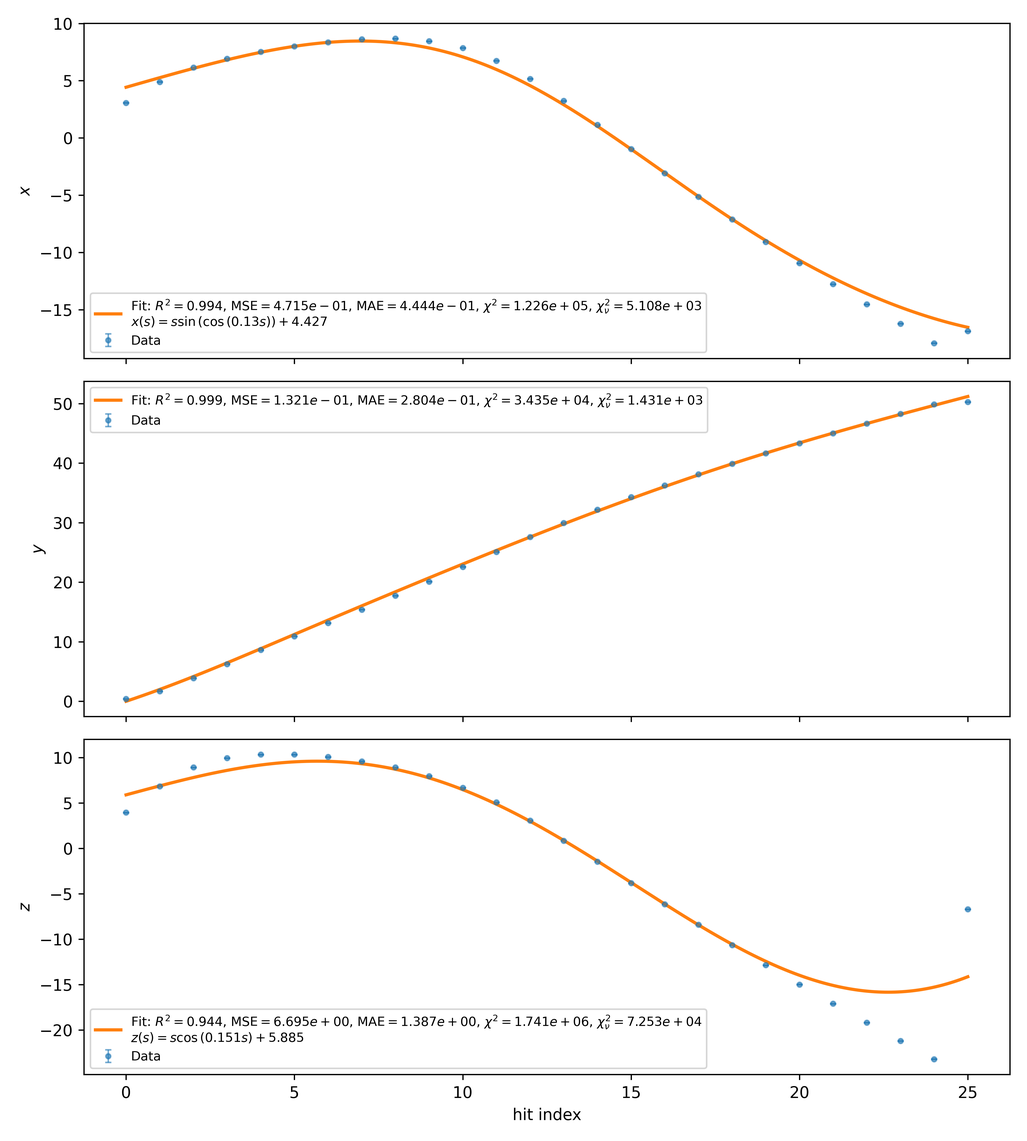
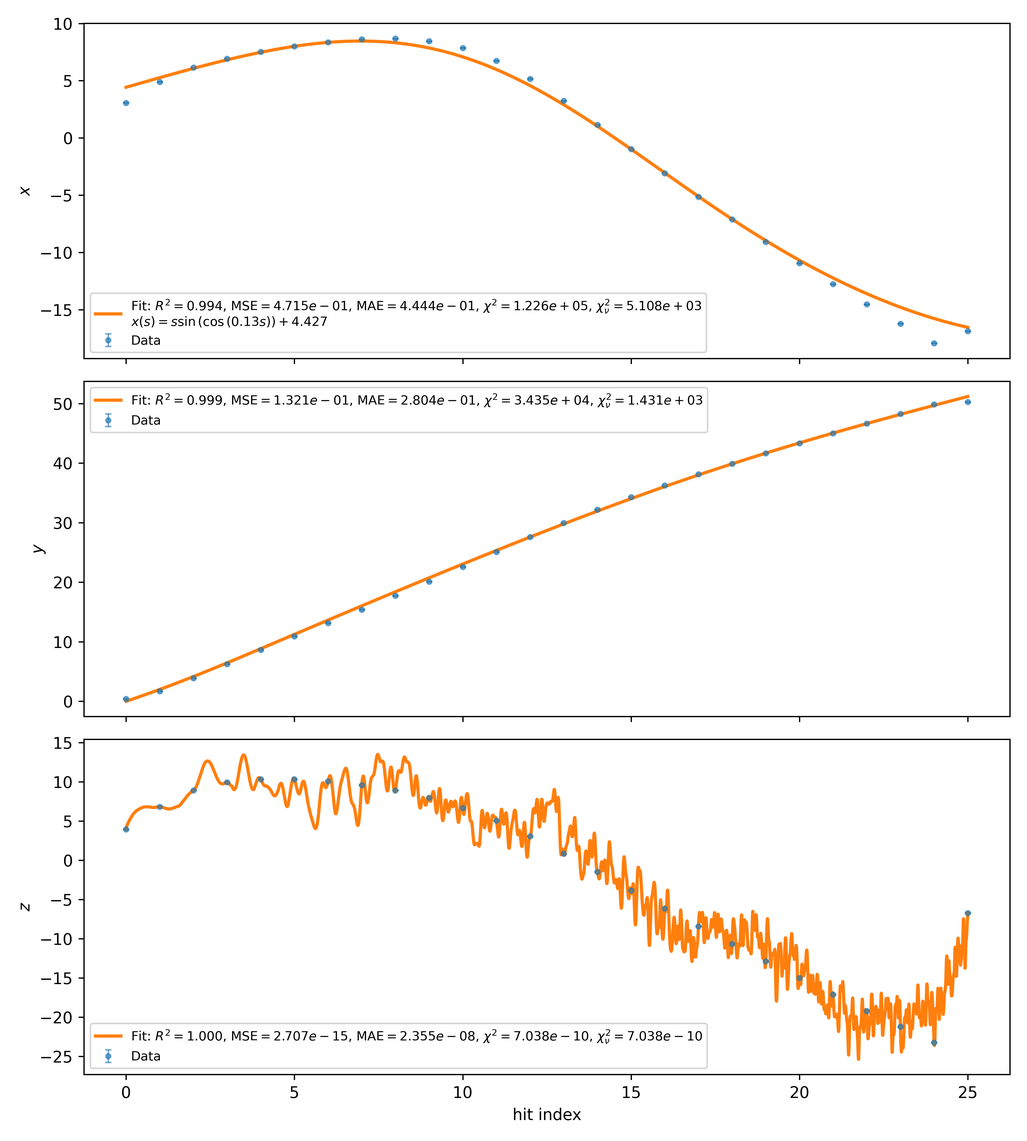
tracks

Changed region(s): [[0.1875, 0.6562, 0.9688, 0.9375], [0.0625, 0.875, 0.6875, 0.9375], [0.125, 0.6875, 0.1875, 0.7188]]

diff --git a/Whiteson/v20260122_163839__train10_test10__layers25_len320p0__r3p1-53p0__fd25-25__func3-3__noiseXY0p01_Z0p01.html b/Whiteson/v20260122_163839__train10_test10__layers25_len320p0__r3p1-53p0__fd25-25__func3-3__noiseXY0p01_Z0p01.html
@@ -131,9 +131,9 @@
 
   <script>
     // Data injected from Python below
-    const slides = [{"fid": 0, "Fx": 0, "Fy": 9, "Fz": 5, "track_idx": 0, "event_id": "event100000001-hits", "png": "pngs/SR_track_v20260122_163839__train10_test10__layers25_len320p0__r3p1-53p0__fd25-25__func3-3__noiseXY0p01_Z0p01event100000001-hits.png", "img_src": "pngs/SR_track_v20260122_163839__train10_test10__layers25_len320p0__r3p1-53p0__fd25-25__func3-3__noiseXY0p01_Z0p01event100000001-hits.png", "metrics_line": "\\begin{align*}&R^2:\\, x=0.776,\\;y=0.970,\\;z=0.725\\\\&\\chi^2_\\nu:\\;\\mathrm{x}=2.898 \\times 10^{5},\\;\\mathrm{y}=7.390 \\times 10^{4},\\;\\mathrm{z}=1.768 \\times 10^{6}\\end{align*}", "eqx": "$x(s) = - 7.415 \\sqrt{s} + s^{\\cos{\\left(s \\right)}}$", "eqy": "$y(s) = - 2 s - \\cos{\\left(s \\right)} + 7.898$", "eqz": "$z(s) = 71.182 \\sin{\\left(\\frac{s}{\\cos{\\left(s \\right)} - 14.387} \\right)}$"}, {"fid": 1, "Fx": 8, "Fy": 1, "Fz": 1, "track_idx": 1, "event_id": "event100000002-hits", "png": "pngs/SR_track_v20260122_163839__train10_test10__layers25_len320p0__r3p1-53p0__fd25-25__func3-3__noiseXY0p01_Z0p01event100000002-hits.png", "img_src": "pngs/SR_track_v20260122_163839__train10_test10__layers25_len320p0__r3p1-53p0__fd25-25__func3-3__noiseXY0p01_Z0p01event100000002-hits.png", "metrics_line": "\\begin{align*}&R^2:\\, x=1.000,\\;y=0.999,\\;z=1.000\\\\&\\chi^2_\\nu:\\;\\mathrm{x}=6.955 \\times 10^{0},\\;\\mathrm{y}=1.372 \\times 10^{2},\\;\\mathrm{z}=4.985 \\times 10^{0}\\end{align*}", "eqx": "$x(s) = s \\left(2.141 - 0.005 s\\right) + 2.886$", "eqy": "$y(s) = - s \\tanh{\\left(\\tanh{\\left(0.031 s \\right)} \\right)} + 1.307$", "eqz": "$z(s) = 0.137 \\left(0.285 s + 1\\right)^{2.309} + 0.161$"}, {"fid": 2, "Fx": 12, "Fy": 5, "Fz": 29, "track_idx": 2, "event_id": "event100000003-hits", "png": "pngs/SR_track_v20260122_163839__train10_test10__layers25_len320p0__r3p1-53p0__fd25-25__func3-3__noiseXY0p01_Z0p01event100000003-hits.png", "img_src": "pngs/SR_track_v20260122_163839__train10_test10__layers25_len320p0__r3p1-53p0__fd25-25__func3-3__noiseXY0p01_Z0p01event100000003-hits.png", "metrics_line": "\\begin{align*}&R^2:\\, x=0.557,\\;y=0.682,\\;z=0.999\\\\&\\chi^2_\\nu:\\;\\mathrm{x}=1.803 \\times 10^{6},\\;\\mathrm{y}=1.831 \\times 10^{6},\\;\\mathrm{z}=1.431 \\times 10^{4}\\end{align*}", "eqx": "$x(s) = 24.583 \\sin{\\left(\\sin{\\left(0.126 s \\right)} - 0.237 \\right)}$", "eqy": "$y(s) = - 28.114 \\sin{\\left(0.086 s \\right)} - 3.495$", "eqz": "$z(s) = 2 s - 2.443 s^{{1.026}^{\\cos{\\left(\\sqrt{s} \\right)}}} - 4.846 \\sin{\\left(0.367 s \\right)} + 2.454 \\sin{\\left(0.45 s \\right)} + \\sin{\\left(1.792 \\sqrt{0.311 {1.052}^{s^{0.993}} + 1} \\right)} + \\sin{\\left(\\cos{\\left(0.278 s^{1.114} \\right)} \\right)} + \\cos{\\left(2.055 s^{0.841} \\right)} + 1.545 \\cos{\\left(0.592 s \\right)} + \\cos{\\left(0.697 s \\right)} + 8.162 \\cos{\\left(s^{0.693} - 2.638 \\right)} + 26.135 \\cos{\\left(54.534 \\sqrt{0.006 s + 1} \\right)} + \\cos{\\left(\\log{\\left({1.502}^{s^{0.998}} \\right)} \\right)} + 25.153 \\tanh{\\left(\\cos{\\left({1.014}^{s} \\right)} \\right)} - 1.144 - \\frac{0.041}{\\operatorname{asin}{\\left(\\cos{\\left(1.065 \\sqrt{0.882 s + 1} \\right)} \\right)}} - \\frac{0.032}{\\sin{\\left(4 s - 3.046 \\right)}} + e^{- 1.983 \\sin{\\left(0.266 s - 0.668 \\right)}} - \\frac{6.012 \\cos{\\left(s - 9.779 \\right)}}{s + 1.214} + \\frac{2.253}{s - 43.423} + \\frac{11.891}{118.389 - s}$"}, {"fid": 3, "Fx": 13, "Fy": 8, "Fz": 7, "track_idx": 3, "event_id": "event100000004-hits", "png": "pngs/SR_track_v20260122_163839__train10_test10__layers25_len320p0__r3p1-53p0__fd25-25__func3-3__noiseXY0p01_Z0p01event100000004-hits.png", "img_src": "pngs/SR_track_v20260122_163839__train10_test10__layers25_len320p0__r3p1-53p0__fd25-25__func3-3__noiseXY0p01_Z0p01event100000004-hits.png", "metrics_line": "\\begin{align*}&R^2:\\, x=0.845,\\;y=0.541,\\;z=0.459\\\\&\\chi^2_\\nu:\\;\\mathrm{x}=1.031 \\times 10^{6},\\;\\mathrm{y}=1.600 \\times 10^{6},\\;\\mathrm{z}=2.529 \\times 10^{6}\\end{align*}", "eqx": "$x(s) = 54.152 \\tanh{\\left(\\tanh{\\left(\\sin{\\left(\\sin{\\left(0.042 s \\right)} \\right)} \\right)} \\right)}$", "eqy": "$y(s) = s^{0.706} \\cos{\\left(s^{0.548} \\right)}$", "eqz": "$z(s) = s^{\\sin{\\left(1.224 e^{\\sin{\\left(\\sqrt{s} \\right)}} \\right)}}$"}, {"fid": 4, "Fx": 14, "Fy": 7, "Fz": 4, "track_idx": 4, "event_id": "event100000005-hits", "png": "pngs/SR_track_v20260122_163839__train10_test10__layers25_len320p0__r3p1-53p0__fd25-25__func3-3__noiseXY0p01_Z0p01event100000005-hits.png", "img_src": "pngs/SR_track_v20260122_163839__train10_test10__layers25_len320p0__r3p1-53p0__fd25-25__func3-3__noiseXY0p01_Z0p01event100000005-hits.png", "metrics_line": "\\begin{align*}&R^2:\\, x=0.994,\\;y=0.999,\\;z=0.944\\\\&\\chi^2_\\nu:\\;\\mathrm{x}=5.108 \\times 10^{3},\\;\\mathrm{y}=1.431 \\times 10^{3},\\;\\mathrm{z}=7.253 \\times 10^{4}\\end{align*}", "eqx": "$x(s) = s \\sin{\\left(\\cos{\\left(0.13 s \\right)} \\right)} + 4.427$", "eqy": "$y(s) = 2.114 s \\sqrt{1 - 0.223 \\sin{\\left(\\cos{\\left(\\sqrt{s} \\right)} \\right)}}$", "eqz": "$z(s) = s \\cos{\\left(0.151 s \\right)} + 5.885$"}];
-    const eqSlides = [{"key": ["x", "Add(Mul(Symbol('a0'), Pow(Symbol('s'), Rational(1, 2))), Pow(Symbol('s'), cos(Symbol('s'))))"], "eq": "$x(s) = a_{0} \\sqrt{s} + s^{\\cos{\\left(s \\right)}}$", "uses": [{"slide": 0, "label": "1-x", "rep_fam": 0}]}, {"key": ["y", "Add(Symbol('a0'), Mul(Integer(-1), Integer(2), Symbol('s')), Mul(Integer(-1), cos(Symbol('s'))))"], "eq": "$y(s) = a_{0} - 2 s - \\cos{\\left(s \\right)}$", "uses": [{"slide": 0, "label": "1-y", "rep_fam": 9}]}, {"key": ["z", "Mul(Symbol('a1'), sin(Mul(Symbol('s'), Pow(Add(Symbol('a0'), cos(Symbol('s'))), Integer(-1)))))"], "eq": "$z(s) = a_{1} \\sin{\\left(\\frac{s}{a_{0} + \\cos{\\left(s \\right)}} \\right)}$", "uses": [{"slide": 0, "label": "1-z", "rep_fam": 5}]}, {"key": ["x", "Add(Symbol('a2'), Mul(Symbol('s'), Add(Mul(Symbol('a0'), Symbol('s')), Symbol('a1'))))"], "eq": "$x(s) = a_{2} + s \\left(a_{0} s + a_{1}\\right)$", "uses": [{"slide": 1, "label": "2-x", "rep_fam": 8}]}, {"key": ["y", "Add(Symbol('a1'), Mul(Integer(-1), Symbol('s'), tanh(tanh(Mul(Symbol('a0'), Symbol('s'))))))"], "eq": "$y(s) = a_{1} - s \\tanh{\\left(\\tanh{\\left(a_{0} s \\right)} \\right)}$", "uses": [{"slide": 1, "label": "2-y", "rep_fam": 1}]}, {"key": ["z", "Add(Mul(Symbol('a0'), Pow(Add(Mul(Symbol('a2'), Symbol('s')), Integer(1)), Symbol('a3'))), Symbol('a1'))"], "eq": "$z(s) = a_{0} \\left(a_{2} s + 1\\right)^{a_{3}} + a_{1}$", "uses": [{"slide": 1, "label": "2-z", "rep_fam": 1}]}, {"key": ["x", "Mul(Symbol('a2'), sin(Add(Symbol('a0'), sin(Mul(Symbol('a1'), Symbol('s'))))))"], "eq": "$x(s) = a_{2} \\sin{\\left(a_{0} + \\sin{\\left(a_{1} s \\right)} \\right)}$", "uses": [{"slide": 2, "label": "3-x", "rep_fam": 12}]}, {"key": ["y", "Add(Mul(Symbol('a0'), sin(Mul(Symbol('a2'), Symbol('s')))), Symbol('a1'))"], "eq": "$y(s) = a_{0} \\sin{\\left(a_{2} s \\right)} + a_{1}$", "uses": [{"slide": 2, "label": "3-y", "rep_fam": 5}]}, {"key": ["z", "Add(Mul(Symbol('a10'), Pow(asin(cos(Mul(Symbol('a28'), Pow(Add(Mul(Symbol('a22'), Symbol('s')), Integer(1)), Rational(1, 2))))), Integer(-1))), Mul(Symbol('a11'), Pow(sin(Add(Symbol('a4'), Mul(Integer(4), Symbol('s')))), Integer(-1))), Mul(Symbol('a2'), Pow(Add(Symbol('a30'), Symbol('s')), Integer(-1)), cos(Add(Symbol('a1'), Symbol('s')))), Mul(Symbol('a3'), sin(Mul(Symbol('a16'), Symbol('s')))), Mul(Symbol('a32'), cos(Mul(Symbol('a18'), Symbol('s')))), Mul(Symbol('a35'), Pow(Add(Symbol('a0'), Symbol('s')), Integer(-1))), Mul(Symbol('a36'), sin(Mul(Symbol('a17'), Symbol('s')))), Mul(Symbol('a37'), cos(Add(Symbol('a5'), Pow(Symbol('s'), Symbol('a19'))))), Mul(Symbol('a38'), Pow(Add(Symbol('a42'), Mul(Integer(-1), Symbol('s'))), Integer(-1))), Mul(Symbol('a39'), tanh(cos(Pow(Symbol('a25'), Symbol('s'))))), Mul(Symbol('a40'), cos(Mul(Symbol('a41'), Pow(Add(Mul(Symbol('a12'), Symbol('s')), Integer(1)), Rational(1, 2))))), Mul(Symbol('a6'), Pow(Symbol('s'), Pow(Symbol('a26'), cos(Pow(Symbol('s'), Rational(1, 2)))))), Symbol('a8'), Mul(Integer(2), Symbol('s')), exp(Mul(Symbol('a7'), sin(Add(Mul(Symbol('a13'), Symbol('s')), Symbol('a9'))))), sin(Mul(Symbol('a33'), Pow(Add(Mul(Symbol('a15'), Pow(Symbol('a27'), Pow(Symbol('s'), Symbol('a23')))), Integer(1)), Rational(1, 2)))), sin(cos(Mul(Symbol('a14'), Pow(Symbol('s'), Symbol('a29'))))), cos(Mul(Symbol('a20'), Symbol('s'))), cos(Mul(Symbol('a34'), Pow(Symbol('s'), Symbol('a21')))), cos(log(Pow(Symbol('a31'), Pow(Symbol('s'), Symbol('a24'))))))"], "eq": "$z(s) = \\frac{a_{10}}{\\operatorname{asin}{\\left(\\cos{\\left(a_{28} \\sqrt{a_{22} s + 1} \\right)} \\right)}} + \\frac{a_{11}}{\\sin{\\left(a_{4} + 4 s \\right)}} + \\frac{a_{2} \\cos{\\left(a_{1} + s \\right)}}{a_{30} + s} + a_{3} \\sin{\\left(a_{16} s \\right)} + a_{32} \\cos{\\left(a_{18} s \\right)} + \\frac{a_{35}}{a_{0} + s} + a_{36} \\sin{\\left(a_{17} s \\right)} + a_{37} \\cos{\\left(a_{5} + s^{a_{19}} \\right)} + \\frac{a_{38}}{a_{42} - s} + a_{39} \\tanh{\\left(\\cos{\\left(a_{25}^{s} \\right)} \\right)} + a_{40} \\cos{\\left(a_{41} \\sqrt{a_{12} s + 1} \\right)} + a_{6} s^{a_{26}^{\\cos{\\left(\\sqrt{s} \\right)}}} + a_{8} + 2 s + e^{a_{7} \\sin{\\left(a_{13} s + a_{9} \\right)}} + \\sin{\\left(a_{33} \\sqrt{a_{15} a_{27}^{s^{a_{23}}} + 1} \\right)} + \\sin{\\left(\\cos{\\left(a_{14} s^{a_{29}} \\right)} \\right)} + \\cos{\\left(a_{20} s \\right)} + \\cos{\\left(a_{34} s^{a_{21}} \\right)} + \\cos{\\left(\\log{\\left(a_{31}^{s^{a_{24}}} \\right)} \\right)}$", "uses": [{"slide": 2, "label": "3-z", "rep_fam": 29}]}, {"key": ["x", "Mul(Symbol('a1'), tanh(tanh(sin(sin(Mul(Symbol('a0'), Symbol('s')))))))"], "eq": "$x(s) = a_{1} \\tanh{\\left(\\tanh{\\left(\\sin{\\left(\\sin{\\left(a_{0} s \\right)} \\right)} \\right)} \\right)}$", "uses": [{"slide": 3, "label": "4-x", "rep_fam": 13}]}, {"key": ["y", "Mul(Pow(Symbol('s'), Symbol('a1')), cos(Pow(Symbol('s'), Symbol('a0'))))"], "eq": "$y(s) = s^{a_{1}} \\cos{\\left(s^{a_{0}} \\right)}$", "uses": [{"slide": 3, "label": "4-y", "rep_fam": 8}]}, {"key": ["z", "Pow(Symbol('s'), sin(Mul(Symbol('a0'), exp(sin(Pow(Symbol('s'), Rational(1, 2)))))))"], "eq": "$z(s) = s^{\\sin{\\left(a_{0} e^{\\sin{\\left(\\sqrt{s} \\right)}} \\right)}}$", "uses": [{"slide": 3, "label": "4-z", "rep_fam": 7}]}, {"key": ["x", "Add(Symbol('a1'), Mul(Symbol('s'), sin(cos(Mul(Symbol('a0'), Symbol('s'))))))"], "eq": "$x(s) = a_{1} + s \\sin{\\left(\\cos{\\left(a_{0} s \\right)} \\right)}$", "uses": [{"slide": 4, "label": "5-x", "rep_fam": 14}]}, {"key": ["y", "Mul(Symbol('a1'), Symbol('s'), Pow(Add(Mul(Symbol('a0'), sin(cos(Pow(Symbol('s'), Rational(1, 2))))), Integer(1)), Rational(1, 2)))"], "eq": "$y(s) = a_{1} s \\sqrt{a_{0} \\sin{\\left(\\cos{\\left(\\sqrt{s} \\right)} \\right)} + 1}$", "uses": [{"slide": 4, "label": "5-y", "rep_fam": 7}]}, {"key": ["z", "Add(Symbol('a1'), Mul(Symbol('s'), cos(Mul(Symbol('a0'), Symbol('s')))))"], "eq": "$z(s) = a_{1} + s \\cos{\\left(a_{0} s \\right)}$", "uses": [{"slide": 4, "label": "5-z", "rep_fam": 4}]}];
-    const eqStats  = {"unique": 15, "total_components": 15};
+    const slides = [{"fid": 0, "Fx": 0, "Fy": 9, "Fz": 5, "track_idx": 0, "event_id": "event100000001-hits", "png": "pngs/SR_track_v20260122_163839__train10_test10__layers25_len320p0__r3p1-53p0__fd25-25__func3-3__noiseXY0p01_Z0p01event100000001-hits.png", "img_src": "pngs/SR_track_v20260122_163839__train10_test10__layers25_len320p0__r3p1-53p0__fd25-25__func3-3__noiseXY0p01_Z0p01event100000001-hits.png", "metrics_line": "\\begin{align*}&R^2:\\, x=0.776,\\;y=0.970,\\;z=0.725\\\\&\\chi^2_\\nu:\\;\\mathrm{x}=2.898 \\times 10^{5},\\;\\mathrm{y}=7.390 \\times 10^{4},\\;\\mathrm{z}=1.768 \\times 10^{6}\\end{align*}", "eqx": "$x(s) = - 7.415 \\sqrt{s} + s^{\\cos{\\left(s \\right)}}$", "eqy": "$y(s) = - 2 s - \\cos{\\left(s \\right)} + 7.898$", "eqz": "$z(s) = 71.182 \\sin{\\left(\\frac{s}{\\cos{\\left(s \\right)} - 14.387} \\right)}$"}, {"fid": 1, "Fx": 8, "Fy": 1, "Fz": 1, "track_idx": 1, "event_id": "event100000002-hits", "png": "pngs/SR_track_v20260122_163839__train10_test10__layers25_len320p0__r3p1-53p0__fd25-25__func3-3__noiseXY0p01_Z0p01event100000002-hits.png", "img_src": "pngs/SR_track_v20260122_163839__train10_test10__layers25_len320p0__r3p1-53p0__fd25-25__func3-3__noiseXY0p01_Z0p01event100000002-hits.png", "metrics_line": "\\begin{align*}&R^2:\\, x=1.000,\\;y=0.999,\\;z=1.000\\\\&\\chi^2_\\nu:\\;\\mathrm{x}=6.955 \\times 10^{0},\\;\\mathrm{y}=1.372 \\times 10^{2},\\;\\mathrm{z}=4.985 \\times 10^{0}\\end{align*}", "eqx": "$x(s) = s \\left(2.141 - 0.005 s\\right) + 2.886$", "eqy": "$y(s) = - s \\tanh{\\left(\\tanh{\\left(0.031 s \\right)} \\right)} + 1.307$", "eqz": "$z(s) = 0.137 \\left(0.285 s + 1\\right)^{2.309} + 0.161$"}, {"fid": 2, "Fx": 12, "Fy": 5, "Fz": 12, "track_idx": 2, "event_id": "event100000003-hits", "png": "pngs/SR_track_v20260122_163839__train10_test10__layers25_len320p0__r3p1-53p0__fd25-25__func3-3__noiseXY0p01_Z0p01event100000003-hits.png", "img_src": "pngs/SR_track_v20260122_163839__train10_test10__layers25_len320p0__r3p1-53p0__fd25-25__func3-3__noiseXY0p01_Z0p01event100000003-hits.png", "metrics_line": "\\begin{align*}&R^2:\\, x=0.557,\\;y=0.682,\\;z=1.000\\\\&\\chi^2_\\nu:\\;\\mathrm{x}=1.803 \\times 10^{6},\\;\\mathrm{y}=1.831 \\times 10^{6},\\;\\mathrm{z}=9.542 \\times 10^{2}\\end{align*}", "eqx": "$x(s) = 24.583 \\sin{\\left(\\sin{\\left(0.126 s \\right)} - 0.237 \\right)}$", "eqy": "$y(s) = - 28.114 \\sin{\\left(0.086 s \\right)} - 3.495$", "eqz": "$z(s) = - s \\left(- s \\left(3.884 \\cdot 10^{-7} s \\operatorname{sech}{\\left(\\cos{\\left(\\sqrt{s} \\right)} \\right)} - 7.819 \\cdot 10^{-5}\\right) - 0.003\\right) \\sin{\\left(s \\right)} \\operatorname{asin}{\\left(\\cos{\\left(s \\operatorname{sech}{\\left(\\tanh{\\left(s \\right)} \\right)} - 0.757 \\right)} \\right)} + 12.957 s \\left(\\sqrt{\\operatorname{sech}{\\left(s \\right)}} - 0.041\\right) - 0.053 s \\sin{\\left(0.263 s \\right)} - 1.394 s \\sin{\\left(s + 0.484 \\right)} \\operatorname{sech}{\\left(3.571 s - 425 \\right)} + 0.008 s \\cos{\\left(0.429 s^{2} + 0.594 \\right)} - 0.355 s \\tanh{\\left(\\sin{\\left(1.09 \\sqrt{s} \\right)} \\right)} + \\left(27.713 - 6.604 \\cdot 10^{-6} s^{3}\\right) \\sin{\\left(0.136 s + 0.136 \\sin{\\left(\\sqrt{s} \\right)} \\right)} - \\left(- 0.002 s - \\left(- 0.532 \\sin{\\left(s \\right)} \\cos{\\left(\\sqrt{s} \\right)} - 0.532 \\cos{\\left(s \\right)} - 0.024\\right) \\sin{\\left(s \\right)}\\right) \\cos{\\left(0.857 s - 0.323 \\right)} + \\left(0.001 s - \\operatorname{asin}{\\left(\\left(- 0.052 \\cos{\\left(s \\right)} + 0.052 \\tanh{\\left(s \\right)}\\right) \\operatorname{asin}{\\left(\\tanh{\\left(s \\right)} \\right)} + 0.052 \\sin{\\left(s^{2} \\right)} - 0.052 \\cos{\\left(s^{2} \\right)} \\right)}\\right) \\sin{\\left(s \\right)} - \\left(0.643 s - 2.47\\right) \\left(- s \\cos{\\left(s \\right)} - \\sin{\\left(s \\right)} - 0.607\\right) \\operatorname{sech}{\\left(0.371 s \\right)} + \\left(\\left(0.196 - 7.75\\times 10^{-4} s\\right) \\left(- 0.009 s - \\sin{\\left(\\sqrt{s} \\right)} - 0.405 \\sin{\\left(s \\right)} - \\cos{\\left(s \\right)} + \\tanh{\\left(s \\right)} + 0.393\\right) \\cos{\\left(4 s + \\sin{\\left(2 s \\right)} \\right)} - 0.076\\right) \\operatorname{acos}{\\left(- \\cos{\\left(s \\right)} \\right)} + \\left(0.417 \\sqrt{1 - \\cos^{2}{\\left(s \\right)}} - 0.417 \\tanh{\\left(s \\right)}\\right) \\sin{\\left(- 0.266 \\sqrt{s} + s \\operatorname{asin}{\\left(\\tanh{\\left(s \\right)} \\right)} + \\operatorname{asin}{\\left(\\cos{\\left(0.075 s \\left(s + 0.075\\right) \\right)} \\right)} \\right)} - \\left(- 0.815 \\sin{\\left(\\left(2.589 - s\\right) \\left(- s - 0.623\\right) \\right)} - 0.328\\right) \\cos{\\left(s \\right)} - \\left(0.575 \\cos{\\left(s \\right)} + 0.392\\right) \\sin{\\left(s \\left(0.873 - 0.888 s\\right) \\right)} + \\left(\\operatorname{sech}{\\left(\\sin{\\left(\\left(0.077 - s\\right) \\tanh{\\left(\\tanh{\\left(s \\right)} \\right)} \\right)} \\right)} - \\operatorname{sech}{\\left(\\operatorname{asin}{\\left(\\cos{\\left(0.907 s + 0.46 \\right)} \\right)} \\right)}\\right) \\left(- 2.374 \\sin{\\left(s \\right)} + 2.374 \\tanh{\\left(s \\right)} - 0.713\\right) + 0.868 \\sin{\\left(\\sqrt{s} \\right)} \\cos{\\left(2 s \\right)} - 5.617 \\sin{\\left(0.368 s \\right)} + 1.493 \\sin{\\left(0.714 s \\right)} - 0.264 \\sin^{2}{\\left(s \\right)} \\sin{\\left(1.073 \\sqrt{- s \\left(- \\sqrt{s} - 0.497\\right)} \\right)} + 1.493 \\sin{\\left(0.639 \\sqrt{s} \\sin{\\left(\\sqrt{s} \\right)} \\right)} + 0.868 \\sin{\\left(s \\left(\\operatorname{acos}{\\left(\\sin{\\left(s \\right)} \\right)} - 0.275\\right) \\right)} + 0.868 \\sin{\\left(1.019 s \\sin{\\left(1 s \\right)} \\right)} + 0.868 \\sin{\\left(s \\cos{\\left(\\operatorname{sech}{\\left(0.014 s \\right)} \\right)} \\right)} - 0.084 \\sin{\\left(s \\tanh{\\left(\\sin{\\left(s \\right)} - 0.075 \\right)} \\right)} \\cos{\\left(s \\right)} + 0.123 \\sin{\\left(s^{2} \\cos{\\left(\\cos{\\left(s \\right)} \\right)} \\right)} - 0.237 \\sin{\\left(\\sin{\\left(s \\right)} \\sqrt{\\left|{s^{2} \\left(2 s - 0.94\\right)}\\right|} \\right)} + 2.425 \\sin{\\left(0.452 s - 0.365 \\right)} - 0.868 \\sin{\\left(0.631 s + 0.419 \\right)} + 0.106 \\sin{\\left(s \\left(\\sin{\\left(s \\right)} + \\operatorname{sech}{\\left(s \\right)}\\right) - s \\right)} + 0.868 \\sin{\\left(\\cos{\\left(s^{1.25} \\right)} \\right)} - 0.188 \\cos{\\left(\\sqrt{s} \\right)} \\cos{\\left(3 s + \\sin{\\left(\\sqrt{s} \\right)} + 0.247 \\right)} - 8.083 \\cos{\\left(0.185 s \\right)} + 1.493 \\cos{\\left(0.859 s \\right)} - \\cos{\\left(s \\right)} \\operatorname{acos}{\\left(\\sin{\\left(\\cos{\\left(\\sin{\\left(1.975 s \\right)} \\right)} \\right)} \\right)} + 0.31 \\cos{\\left(1.443 s \\right)} - 0.12 \\cos{\\left(s^{2} \\right)} \\operatorname{asin}{\\left(\\sin{\\left(s + \\tanh{\\left(\\sin{\\left(s \\right)} + \\operatorname{sech}{\\left(s \\right)} \\right)} \\right)} \\cos{\\left(\\sqrt{s} \\right)} \\right)} + 0.868 \\cos{\\left(1.523 s^{2} \\right)} + 0.868 \\cos{\\left(\\sqrt{s} \\sin{\\left(s + 0.701 \\right)} \\right)} + 0.868 \\cos{\\left(s \\left(1.598 - s\\right) \\right)} + 0.868 \\cos{\\left(s \\left(2 s + 0.258\\right) \\right)} - 0.31 \\cos{\\left(s \\left(1.003 \\sin{\\left(s \\right)} + 1.919\\right) \\right)} + 0.868 \\cos{\\left(s \\left(\\operatorname{asin}{\\left(\\cos{\\left(s \\right)} \\right)} + 2\\right) \\right)} + 0.414 \\cos{\\left(1.106 s \\left(- \\operatorname{sech}{\\left(s \\right)} - \\sqrt{\\operatorname{sech}{\\left(\\sin{\\left(s \\right)} \\right)}} + 0.705\\right) \\right)} + 1.493 \\cos{\\left(0.957 s + 0.699 \\right)} + \\cos{\\left(\\sin{\\left(1.416 s \\sqrt{s + 0.604} \\right)} \\right)} - 0.868 \\tanh{\\left(\\sin{\\left(1.016 \\sqrt{s} + 1.016 s \\right)} \\right)} + \\tanh{\\left(\\cos{\\left(s \\right)} \\right)} + 0.868 \\tanh{\\left(\\cos{\\left(5.004 s \\right)} \\right)} + 0.868 \\tanh{\\left(\\cos{\\left(s \\left(1 s + 0.037\\right) \\right)} \\right)} - 0.507 \\operatorname{acos}{\\left(\\sin{\\left(0.765 s \\right)} \\right)} + 2.425 \\operatorname{acos}{\\left(\\sin{\\left(0.518 s + 0.493 \\right)} \\right)} + \\operatorname{asin}{\\left(0.037 \\sqrt{s} \\operatorname{asin}{\\left(\\cos{\\left(0.411 s - 0.411 \\cos{\\left(s \\right)} + 0.933 \\right)} \\right)} \\right)} + \\operatorname{asin}{\\left(0.123 \\sin{\\left(\\sqrt{s} + s \\left(s^{0.25} - \\sqrt{s}\\right) - 0.514 \\right)} \\right)} + 1.493 \\operatorname{asin}{\\left(\\cos{\\left(0.25 s \\right)} \\right)} + 1.493 \\operatorname{asin}{\\left(\\cos{\\left(0.266 s \\right)} \\right)} + 1.493 \\operatorname{asin}{\\left(\\cos{\\left(0.595 s \\right)} \\right)} + 0.276 \\operatorname{asin}{\\left(\\cos{\\left(s \\left(s + 0.266\\right) \\right)} \\right)} - 0.26 \\operatorname{asin}{\\left(\\cos{\\left(\\left(s + 0.357\\right) \\left(0.654 \\cos{\\left(s \\right)} + 2\\right) \\right)} \\right)} + 0.868 \\operatorname{asin}{\\left(\\cos{\\left(0.983 \\sqrt{s} + 0.983 s \\right)} \\right)} + \\operatorname{asin}{\\left(\\operatorname{sech}{\\left(3.302 \\sin{\\left(s \\right)} \\right)} \\right)} - 3.07$"}, {"fid": 3, "Fx": 13, "Fy": 8, "Fz": 7, "track_idx": 3, "event_id": "event100000004-hits", "png": "pngs/SR_track_v20260122_163839__train10_test10__layers25_len320p0__r3p1-53p0__fd25-25__func3-3__noiseXY0p01_Z0p01event100000004-hits.png", "img_src": "pngs/SR_track_v20260122_163839__train10_test10__layers25_len320p0__r3p1-53p0__fd25-25__func3-3__noiseXY0p01_Z0p01event100000004-hits.png", "metrics_line": "\\begin{align*}&R^2:\\, x=0.845,\\;y=0.541,\\;z=0.459\\\\&\\chi^2_\\nu:\\;\\mathrm{x}=1.031 \\times 10^{6},\\;\\mathrm{y}=1.600 \\times 10^{6},\\;\\mathrm{z}=2.529 \\times 10^{6}\\end{align*}", "eqx": "$x(s) = 54.152 \\tanh{\\left(\\tanh{\\left(\\sin{\\left(\\sin{\\left(0.042 s \\right)} \\right)} \\right)} \\right)}$", "eqy": "$y(s) = s^{0.706} \\cos{\\left(s^{0.548} \\right)}$", "eqz": "$z(s) = s^{\\sin{\\left(1.224 e^{\\sin{\\left(\\sqrt{s} \\right)}} \\right)}}$"}, {"fid": 4, "Fx": 14, "Fy": 7, "Fz": 12, "track_idx": 4, "event_id": "event100000005-hits", "png": "pngs/SR_track_v20260122_163839__train10_test10__layers25_len320p0__r3p1-53p0__fd25-25__func3-3__noiseXY0p01_Z0p01event100000005-hits.png", "img_src": "pngs/SR_track_v20260122_163839__train10_test10__layers25_len320p0__r3p1-53p0__fd25-25__func3-3__noiseXY0p01_Z0p01event100000005-hits.png", "metrics_line": "\\begin{align*}&R^2:\\, x=0.994,\\;y=0.999,\\;z=1.000\\\\&\\chi^2_\\nu:\\;\\mathrm{x}=5.108 \\times 10^{3},\\;\\mathrm{y}=1.431 \\times 10^{3},\\;\\mathrm{z}=7.038 \\times 10^{-10}\\end{align*}", "eqx": "$x(s) = s \\sin{\\left(\\cos{\\left(0.13 s \\right)} \\right)} + 4.427$", "eqy": "$y(s) = 2.114 s \\sqrt{1 - 0.223 \\sin{\\left(\\cos{\\left(\\sqrt{s} \\right)} \\right)}}$", "eqz": "$z(s) = - s \\left(- s \\left(- 6.02\\times 10^{-4} s \\operatorname{sech}{\\left(\\cos{\\left(\\sqrt{s} \\right)} \\right)} + 0.009\\right) + 0.038\\right) \\sin{\\left(s \\right)} \\operatorname{asin}{\\left(\\cos{\\left(s \\operatorname{sech}{\\left(\\tanh{\\left(s \\right)} \\right)} - 0.758 \\right)} \\right)} + 12.93 s \\left(\\sqrt{\\operatorname{sech}{\\left(s \\right)}} - 0.1\\right) - 0.181 s \\sin{\\left(0.192 s \\right)} - 1.394 s \\sin{\\left(s + 0.484 \\right)} \\operatorname{sech}{\\left(3.571 s - 425 \\right)} + 0.037 s \\cos{\\left(0.43 s^{2} + 0.591 \\right)} - 0.458 s \\tanh{\\left(\\sin{\\left(1.006 \\sqrt{s} \\right)} \\right)} + \\left(27.699 - 0.004 s^{3}\\right) \\sin{\\left(0.129 s + 0.129 \\sin{\\left(\\sqrt{s} \\right)} \\right)} + \\left(- 0.001 s - \\operatorname{asin}{\\left(\\left(- 0.068 \\cos{\\left(s \\right)} + 0.105 \\tanh{\\left(s \\right)}\\right) \\operatorname{asin}{\\left(\\tanh{\\left(s \\right)} \\right)} + 0.105 \\sin{\\left(s^{2} \\right)} - 0.068 \\cos{\\left(s^{2} \\right)} \\right)}\\right) \\sin{\\left(s \\right)} - \\left(0.021 s - \\left(- 0.538 \\sin{\\left(s \\right)} \\cos{\\left(\\sqrt{s} \\right)} - 0.538 \\cos{\\left(s \\right)} - 0.035\\right) \\sin{\\left(s \\right)}\\right) \\cos{\\left(0.832 s - 0.329 \\right)} - \\left(0.657 s - 2.494\\right) \\left(- s \\cos{\\left(s \\right)} - \\sin{\\left(s \\right)} - 0.672\\right) \\operatorname{sech}{\\left(0.376 s \\right)} + \\left(\\left(0.005 s + 0.222\\right) \\left(- 0.034 s - \\sin{\\left(\\sqrt{s} \\right)} - 0.41 \\sin{\\left(s \\right)} - \\cos{\\left(s \\right)} + \\tanh{\\left(s \\right)} + 0.38\\right) \\cos{\\left(4 s + \\sin{\\left(2 s \\right)} \\right)} - 0.152\\right) \\operatorname{acos}{\\left(- \\cos{\\left(s \\right)} \\right)} + \\left(0.407 \\sqrt{1 - \\cos^{2}{\\left(s \\right)}} - 0.417 \\tanh{\\left(s \\right)}\\right) \\sin{\\left(- 0.266 \\sqrt{s} + s \\operatorname{asin}{\\left(\\tanh{\\left(s \\right)} \\right)} + \\operatorname{asin}{\\left(\\cos{\\left(0.077 s \\left(s + 0.077\\right) \\right)} \\right)} \\right)} - \\left(- 0.863 \\sin{\\left(\\left(2.607 - s\\right) \\left(- s - 0.586\\right) \\right)} - 0.32\\right) \\cos{\\left(s \\right)} - \\left(0.563 \\cos{\\left(s \\right)} + 0.396\\right) \\sin{\\left(s \\left(0.839 - 0.881 s\\right) \\right)} + \\left(\\operatorname{sech}{\\left(\\sin{\\left(\\left(0.088 - s\\right) \\tanh{\\left(\\tanh{\\left(s \\right)} \\right)} \\right)} \\right)} - \\operatorname{sech}{\\left(\\operatorname{asin}{\\left(\\cos{\\left(0.948 s + 0.45 \\right)} \\right)} \\right)}\\right) \\left(- 2.371 \\sin{\\left(s \\right)} + 2.369 \\tanh{\\left(s \\right)} - 0.721\\right) + 0.765 \\sin{\\left(\\sqrt{s} \\right)} \\cos{\\left(2 s \\right)} - 5.631 \\sin{\\left(0.39 s \\right)} + 1.313 \\sin{\\left(0.807 s \\right)} - 0.28 \\sin^{2}{\\left(s \\right)} \\sin{\\left(1.089 \\sqrt{- s \\left(- \\sqrt{s} - 0.5\\right)} \\right)} + 1.313 \\sin{\\left(0.629 \\sqrt{s} \\sin{\\left(\\sqrt{s} \\right)} \\right)} + 0.765 \\sin{\\left(s \\left(\\operatorname{acos}{\\left(\\sin{\\left(s \\right)} \\right)} - 0.218\\right) \\right)} + 0.765 \\sin{\\left(0.999 s \\sin{\\left(0.998 s \\right)} \\right)} + 0.765 \\sin{\\left(s \\cos{\\left(\\operatorname{sech}{\\left(2.2\\times 10^{-4} s \\right)} \\right)} \\right)} - 0.083 \\sin{\\left(s \\tanh{\\left(\\sin{\\left(s \\right)} - 0.077 \\right)} \\right)} \\cos{\\left(s \\right)} + 0.109 \\sin{\\left(s^{2} \\cos{\\left(\\cos{\\left(s \\right)} \\right)} \\right)} - 0.272 \\sin{\\left(\\sin{\\left(s \\right)} \\sqrt{\\left|{s^{2} \\left(2 s - 0.938\\right)}\\right|} \\right)} + 2.389 \\sin{\\left(0.439 s - 0.443 \\right)} - 0.906 \\sin{\\left(0.659 s + 0.433 \\right)} + 0.104 \\sin{\\left(s \\left(\\sin{\\left(s \\right)} + \\operatorname{sech}{\\left(s \\right)}\\right) - s \\right)} + 0.765 \\sin{\\left(\\cos{\\left(s^{1.258} \\right)} \\right)} - 0.178 \\cos{\\left(\\sqrt{s} \\right)} \\cos{\\left(3 s + \\sin{\\left(\\sqrt{s} \\right)} + 0.245 \\right)} - 8.13 \\cos{\\left(0.102 s \\right)} + 1.313 \\cos{\\left(0.908 s \\right)} - \\cos{\\left(s \\right)} \\operatorname{acos}{\\left(\\sin{\\left(\\cos{\\left(\\sin{\\left(1.978 s \\right)} \\right)} \\right)} \\right)} + 0.301 \\cos{\\left(1.463 s \\right)} - 0.139 \\cos{\\left(s^{2} \\right)} \\operatorname{asin}{\\left(\\sin{\\left(s + \\tanh{\\left(\\sin{\\left(s \\right)} + \\operatorname{sech}{\\left(s \\right)} \\right)} \\right)} \\cos{\\left(\\sqrt{s} \\right)} \\right)} + 0.765 \\cos{\\left(1.523 s^{2} \\right)} + 0.765 \\cos{\\left(\\sqrt{s} \\sin{\\left(s + 0.704 \\right)} \\right)} + 0.765 \\cos{\\left(s \\left(1.639 - s\\right) \\right)} + 0.765 \\cos{\\left(s \\left(2 s + 0.235\\right) \\right)} - 0.3 \\cos{\\left(s \\left(0.979 \\sin{\\left(s \\right)} + 1.94\\right) \\right)} + 0.765 \\cos{\\left(s \\left(\\operatorname{asin}{\\left(\\cos{\\left(s \\right)} \\right)} + 2\\right) \\right)} + 0.388 \\cos{\\left(1.113 s \\left(- \\operatorname{sech}{\\left(s \\right)} - \\sqrt{\\operatorname{sech}{\\left(\\sin{\\left(s \\right)} \\right)}} + 0.696\\right) \\right)} + 1.313 \\cos{\\left(0.965 s + 0.729 \\right)} + \\cos{\\left(\\sin{\\left(1.414 s \\sqrt{s + 0.606} \\right)} \\right)} - 0.906 \\tanh{\\left(\\sin{\\left(0.962 \\sqrt{s} + 0.962 s \\right)} \\right)} + \\tanh{\\left(\\cos{\\left(s \\right)} \\right)} + 0.765 \\tanh{\\left(\\cos{\\left(5.055 s \\right)} \\right)} + 0.765 \\tanh{\\left(\\cos{\\left(s \\left(0.995 s + 0.085\\right) \\right)} \\right)} - 0.554 \\operatorname{acos}{\\left(\\sin{\\left(0.803 s \\right)} \\right)} + 2.389 \\operatorname{acos}{\\left(\\sin{\\left(0.498 s + 0.536 \\right)} \\right)} + \\operatorname{asin}{\\left(0.085 \\sqrt{s} \\operatorname{asin}{\\left(\\cos{\\left(0.406 s - 0.409 \\cos{\\left(s \\right)} + 0.935 \\right)} \\right)} \\right)} + \\operatorname{asin}{\\left(0.134 \\sin{\\left(\\sqrt{s} + s \\left(s^{0.254} - \\sqrt{s}\\right) - 0.519 \\right)} \\right)} + 1.313 \\operatorname{asin}{\\left(\\cos{\\left(0.254 s \\right)} \\right)} + 1.313 \\operatorname{asin}{\\left(\\cos{\\left(0.348 s \\right)} \\right)} + 1.313 \\operatorname{asin}{\\left(\\cos{\\left(0.569 s \\right)} \\right)} + 0.267 \\operatorname{asin}{\\left(\\cos{\\left(s \\left(s + 0.348\\right) \\right)} \\right)} - 0.228 \\operatorname{asin}{\\left(\\cos{\\left(\\left(s + 0.367\\right) \\left(0.62 \\cos{\\left(s \\right)} + 2\\right) \\right)} \\right)} + 0.765 \\operatorname{asin}{\\left(\\cos{\\left(1.02 \\sqrt{s} + 1.02 s \\right)} \\right)} + \\operatorname{asin}{\\left(\\operatorname{sech}{\\left(3.306 \\sin{\\left(s \\right)} \\right)} \\right)} - 3.113$"}];
+    const eqSlides = [{"key": ["x", "Add(Mul(Symbol('a0'), Pow(Symbol('s'), Rational(1, 2))), Pow(Symbol('s'), cos(Symbol('s'))))"], "eq": "$x(s) = a_{0} \\sqrt{s} + s^{\\cos{\\left(s \\right)}}$", "uses": [{"slide": 0, "label": "1-x", "rep_fam": 0}]}, {"key": ["y", "Add(Symbol('a0'), Mul(Integer(-1), Integer(2), Symbol('s')), Mul(Integer(-1), cos(Symbol('s'))))"], "eq": "$y(s) = a_{0} - 2 s - \\cos{\\left(s \\right)}$", "uses": [{"slide": 0, "label": "1-y", "rep_fam": 9}]}, {"key": ["z", "Mul(Symbol('a1'), sin(Mul(Symbol('s'), Pow(Add(Symbol('a0'), cos(Symbol('s'))), Integer(-1)))))"], "eq": "$z(s) = a_{1} \\sin{\\left(\\frac{s}{a_{0} + \\cos{\\left(s \\right)}} \\right)}$", "uses": [{"slide": 0, "label": "1-z", "rep_fam": 5}]}, {"key": ["x", "Add(Symbol('a2'), Mul(Symbol('s'), Add(Mul(Symbol('a0'), Symbol('s')), Symbol('a1'))))"], "eq": "$x(s) = a_{2} + s \\left(a_{0} s + a_{1}\\right)$", "uses": [{"slide": 1, "label": "2-x", "rep_fam": 8}]}, {"key": ["y", "Add(Symbol('a1'), Mul(Integer(-1), Symbol('s'), tanh(tanh(Mul(Symbol('a0'), Symbol('s'))))))"], "eq": "$y(s) = a_{1} - s \\tanh{\\left(\\tanh{\\left(a_{0} s \\right)} \\right)}$", "uses": [{"slide": 1, "label": "2-y", "rep_fam": 1}]}, {"key": ["z", "Add(Mul(Symbol('a0'), Pow(Add(Mul(Symbol('a2'), Symbol('s')), Integer(1)), Symbol('a3'))), Symbol('a1'))"], "eq": "$z(s) = a_{0} \\left(a_{2} s + 1\\right)^{a_{3}} + a_{1}$", "uses": [{"slide": 1, "label": "2-z", "rep_fam": 1}]}, {"key": ["x", "Mul(Symbol('a2'), sin(Add(Symbol('a0'), sin(Mul(Symbol('a1'), Symbol('s'))))))"], "eq": "$x(s) = a_{2} \\sin{\\left(a_{0} + \\sin{\\left(a_{1} s \\right)} \\right)}$", "uses": [{"slide": 2, "label": "3-x", "rep_fam": 12}]}, {"key": ["y", "Add(Mul(Symbol('a0'), sin(Mul(Symbol('a2'), Symbol('s')))), Symbol('a1'))"], "eq": "$y(s) = a_{0} \\sin{\\left(a_{2} s \\right)} + a_{1}$", "uses": [{"slide": 2, "label": "3-y", "rep_fam": 5}]}, {"key": ["z", "Add(Mul(Symbol('a0'), cos(Mul(Symbol('a58'), Symbol('s')))), Mul(Symbol('a1'), sin(Mul(Symbol('a68'), Symbol('s')))), Mul(Symbol('a114'), sin(Mul(Symbol('a93'), Symbol('s')))), Mul(Symbol('a114'), sin(Mul(Symbol('a87'), Pow(Symbol('s'), Rational(1, 2)), sin(Pow(Symbol('s'), Rational(1, 2)))))), Mul(Symbol('a114'), cos(Mul(Symbol('a96'), Symbol('s')))), Mul(Symbol('a114'), cos(Add(Mul(Symbol('a101'), Symbol('s')), Symbol('a90')))), Mul(Symbol('a114'), asin(cos(Mul(Symbol('a61'), Symbol('s'))))), Mul(Symbol('a114'), asin(cos(Mul(Symbol('a64'), Symbol('s'))))), Mul(Symbol('a114'), asin(cos(Mul(Symbol('a84'), Symbol('s'))))), Mul(Symbol('a120'), sin(Add(Symbol('a21'), Mul(Symbol('a77'), Symbol('s'))))), Mul(Symbol('a120'), acos(sin(Add(Symbol('a80'), Mul(Symbol('a81'), Symbol('s')))))), Mul(Symbol('a125'), Symbol('s'), Add(Symbol('a38'), Pow(sech(Symbol('s')), Rational(1, 2)))), Mul(Symbol('a16'), acos(sin(Mul(Symbol('a94'), Symbol('s'))))), Symbol('a2'), Mul(Symbol('a22'), Symbol('s'), tanh(sin(Mul(Symbol('a109'), Pow(Symbol('s'), Rational(1, 2)))))), Mul(Symbol('a25'), cos(Mul(Symbol('s'), Add(Mul(Symbol('a105'), sin(Symbol('s'))), Symbol('a117'))))), Mul(Symbol('a28'), Pow(sin(Symbol('s')), Integer(2)), sin(Mul(Symbol('a108'), Pow(Mul(Integer(-1), Symbol('s'), Add(Symbol('a17'), Mul(Integer(-1), Pow(Symbol('s'), Rational(1, 2))))), Rational(1, 2))))), Mul(Symbol('a29'), asin(cos(Mul(Add(Symbol('a67'), Symbol('s')), Add(Mul(Symbol('a89'), cos(Symbol('s'))), Integer(2)))))), Mul(Symbol('a30'), sin(Mul(sin(Symbol('s')), Pow(Abs(Mul(Pow(Symbol('s'), Integer(2)), Add(Symbol('a6'), Mul(Integer(2), Symbol('s'))))), Rational(1, 2))))), Mul(Symbol('a31'), cos(Pow(Symbol('s'), Rational(1, 2))), cos(Add(Symbol('a60'), Mul(Integer(3), Symbol('s')), sin(Pow(Symbol('s'), Rational(1, 2)))))), Mul(Symbol('a32'), cos(Pow(Symbol('s'), Integer(2))), asin(Mul(sin(Add(Symbol('s'), tanh(Add(sin(Symbol('s')), sech(Symbol('s')))))), cos(Pow(Symbol('s'), Rational(1, 2)))))), Mul(Symbol('a33'), sin(Mul(Symbol('s'), tanh(Add(Symbol('a35'), sin(Symbol('s')))))), cos(Symbol('s'))), Mul(Symbol('a36'), Symbol('s'), sin(Mul(Symbol('a63'), Symbol('s')))), Mul(Symbol('a48'), Symbol('s'), cos(Add(Mul(Symbol('a76'), Pow(Symbol('s'), Integer(2))), Symbol('a83')))), Mul(Symbol('a5'), Symbol('s'), sin(Add(Symbol('a79'), Symbol('s'))), sech(Add(Mul(Symbol('a123'), Symbol('s')), Integer(-425)))), Mul(Symbol('a54'), sin(Add(Mul(Symbol('s'), Add(sin(Symbol('s')), sech(Symbol('s')))), Mul(Integer(-1), Symbol('s'))))), Mul(Symbol('a56'), sin(Mul(Pow(Symbol('s'), Integer(2)), cos(cos(Symbol('s')))))), Mul(Symbol('a65'), asin(cos(Mul(Symbol('s'), Add(Symbol('a64'), Symbol('s')))))), Mul(Symbol('a66'), cos(Mul(Symbol('a113'), Symbol('s')))), Mul(Symbol('a73'), cos(Mul(Symbol('a110'), Symbol('s'), Add(Symbol('a92'), Mul(Integer(-1), sech(Symbol('s'))), Mul(Integer(-1), Pow(sech(sin(Symbol('s'))), Rational(1, 2))))))), Mul(Symbol('a8'), sin(Add(Symbol('a75'), Mul(Symbol('a86'), Symbol('s'))))), Mul(Symbol('a8'), tanh(sin(Add(Mul(Symbol('a106'), Pow(Symbol('s'), Rational(1, 2))), Mul(Symbol('a106'), Symbol('s')))))), Mul(Symbol('a97'), sin(Pow(Symbol('s'), Rational(1, 2))), cos(Mul(Integer(2), Symbol('s')))), Mul(Symbol('a97'), sin(Mul(Symbol('s'), Add(Symbol('a26'), acos(sin(Symbol('s'))))))), Mul(Symbol('a97'), sin(Mul(Symbol('s'), cos(sech(Mul(Symbol('a49'), Symbol('s'))))))), Mul(Symbol('a97'), sin(Mul(Symbol('a107'), Symbol('s'), sin(Mul(Symbol('a103'), Symbol('s')))))), Mul(Symbol('a97'), sin(cos(Pow(Symbol('s'), Symbol('a111'))))), Mul(Symbol('a97'), cos(Mul(Symbol('a115'), Pow(Symbol('s'), Integer(2))))), Mul(Symbol('a97'), cos(Mul(Pow(Symbol('s'), Rational(1, 2)), sin(Add(Symbol('a91'), Symbol('s')))))), Mul(Symbol('a97'), cos(Mul(Symbol('s'), Add(Symbol('a116'), Mul(Integer(-1), Symbol('s')))))), Mul(Symbol('a97'), cos(Mul(Symbol('s'), Add(Symbol('a62'), Mul(Integer(2), Symbol('s')))))), Mul(Symbol('a97'), cos(Mul(Symbol('s'), Add(asin(cos(Symbol('s'))), Integer(2))))), Mul(Symbol('a97'), tanh(cos(Mul(Symbol('a124'), Symbol('s'))))), Mul(Symbol('a97'), tanh(cos(Mul(Symbol('s'), Add(Mul(Symbol('a104'), Symbol('s')), Symbol('a50')))))), Mul(Symbol('a97'), asin(cos(Add(Mul(Symbol('a102'), Pow(Symbol('s'), Rational(1, 2))), Mul(Symbol('a102'), Symbol('s')))))), Mul(Integer(-1), Symbol('s'), Add(Symbol('a41'), Mul(Integer(-1), Symbol('s'), Add(Symbol('a44'), Mul(Symbol('a46'), Symbol('s'), sech(cos(Pow(Symbol('s'), Rational(1, 2)))))))), sin(Symbol('s')), asin(cos(Add(Symbol('a10'), Mul(Symbol('s'), sech(tanh(Symbol('s')))))))), Mul(Add(Symbol('a126'), Mul(Symbol('a45'), Pow(Symbol('s'), Integer(3)))), sin(Add(Mul(Symbol('a57'), Symbol('s')), Mul(Symbol('a57'), sin(Pow(Symbol('s'), Rational(1, 2))))))), Mul(Integer(-1), Add(Symbol('a23'), Mul(Symbol('a9'), sin(Mul(Add(Symbol('a12'), Mul(Integer(-1), Symbol('s'))), Add(Symbol('a121'), Mul(Integer(-1), Symbol('s'))))))), cos(Symbol('s'))), Mul(Integer(-1), Add(Symbol('a3'), Mul(Symbol('a88'), Symbol('s'))), Add(Symbol('a13'), Mul(Integer(-1), Symbol('s'), cos(Symbol('s'))), Mul(Integer(-1), sin(Symbol('s')))), sech(Mul(Symbol('a69'), Symbol('s')))), Mul(Add(Symbol('a34'), Mul(Add(Mul(Symbol('a43'), Symbol('s')), Symbol('a59')), Add(Mul(Symbol('a20'), sin(Symbol('s'))), Mul(Symbol('a40'), Symbol('s')), Symbol('a71'), Mul(Integer(-1), sin(Pow(Symbol('s'), Rational(1, 2)))), Mul(Integer(-1), cos(Symbol('s'))), tanh(Symbol('s'))), cos(Add(Mul(Integer(4), Symbol('s')), sin(Mul(Integer(2), Symbol('s'))))))), acos(Mul(Integer(-1), cos(Symbol('s'))))), Mul(Integer(-1), Add(Symbol('a70'), Mul(Symbol('a82'), cos(Symbol('s')))), sin(Mul(Symbol('s'), Add(Mul(Symbol('a7'), Symbol('s')), Symbol('a98'))))), Mul(Add(Mul(Symbol('a18'), tanh(Symbol('s'))), Mul(Symbol('a74'), Pow(Add(Integer(1), Mul(Integer(-1), Pow(cos(Symbol('s')), Integer(2)))), Rational(1, 2)))), sin(Add(Mul(Symbol('a27'), Pow(Symbol('s'), Rational(1, 2))), Mul(Symbol('s'), asin(tanh(Symbol('s')))), asin(cos(Mul(Symbol('a52'), Symbol('s'), Add(Symbol('a52'), Symbol('s')))))))), Mul(Integer(-1), Add(Mul(Symbol('a42'), Symbol('s')), Mul(Integer(-1), Add(Mul(Symbol('a14'), sin(Symbol('s')), cos(Pow(Symbol('s'), Rational(1, 2)))), Mul(Symbol('a14'), cos(Symbol('s'))), Symbol('a39')), sin(Symbol('s')))), cos(Add(Symbol('a24'), Mul(Symbol('a95'), Symbol('s'))))), Mul(Add(Mul(Symbol('a47'), Symbol('s')), Mul(Integer(-1), asin(Add(Mul(Symbol('a37'), cos(Pow(Symbol('s'), Integer(2)))), Mul(Symbol('a51'), sin(Pow(Symbol('s'), Integer(2)))), Mul(Add(Mul(Symbol('a37'), cos(Symbol('s'))), Mul(Symbol('a51'), tanh(Symbol('s')))), asin(tanh(Symbol('s')))))))), sin(Symbol('s'))), Mul(Add(sech(sin(Mul(Add(Symbol('a53'), Mul(Integer(-1), Symbol('s'))), tanh(tanh(Symbol('s')))))), Mul(Integer(-1), sech(asin(cos(Add(Symbol('a78'), Mul(Symbol('a99'), Symbol('s')))))))), Add(Symbol('a11'), Mul(Symbol('a119'), tanh(Symbol('s'))), Mul(Symbol('a4'), sin(Symbol('s'))))), Mul(Integer(-1), cos(Symbol('s')), acos(sin(cos(sin(Mul(Symbol('a118'), Symbol('s'))))))), cos(sin(Mul(Symbol('a112'), Symbol('s'), Pow(Add(Symbol('a85'), Symbol('s')), Rational(1, 2))))), tanh(cos(Symbol('s'))), asin(Mul(Symbol('a55'), sin(Add(Symbol('a15'), Pow(Symbol('s'), Rational(1, 2)), Mul(Symbol('s'), Add(Mul(Integer(-1), Pow(Symbol('s'), Rational(1, 2))), Pow(Symbol('s'), Symbol('a61')))))))), asin(Mul(Symbol('a50'), Pow(Symbol('s'), Rational(1, 2)), asin(cos(Add(Symbol('a100'), Mul(Symbol('a19'), cos(Symbol('s'))), Mul(Symbol('a72'), Symbol('s'))))))), asin(sech(Mul(Symbol('a122'), sin(Symbol('s'))))))"], "eq": "$z(s) = a_{0} \\cos{\\left(a_{58} s \\right)} + a_{1} \\sin{\\left(a_{68} s \\right)} + a_{114} \\sin{\\left(a_{93} s \\right)} + a_{114} \\sin{\\left(a_{87} \\sqrt{s} \\sin{\\left(\\sqrt{s} \\right)} \\right)} + a_{114} \\cos{\\left(a_{96} s \\right)} + a_{114} \\cos{\\left(a_{101} s + a_{90} \\right)} + a_{114} \\operatorname{asin}{\\left(\\cos{\\left(a_{61} s \\right)} \\right)} + a_{114} \\operatorname{asin}{\\left(\\cos{\\left(a_{64} s \\right)} \\right)} + a_{114} \\operatorname{asin}{\\left(\\cos{\\left(a_{84} s \\right)} \\right)} + a_{120} \\sin{\\left(a_{21} + a_{77} s \\right)} + a_{120} \\operatorname{acos}{\\left(\\sin{\\left(a_{80} + a_{81} s \\right)} \\right)} + a_{125} s \\left(a_{38} + \\sqrt{\\operatorname{sech}{\\left(s \\right)}}\\right) + a_{16} \\operatorname{acos}{\\left(\\sin{\\left(a_{94} s \\right)} \\right)} + a_{2} + a_{22} s \\tanh{\\left(\\sin{\\left(a_{109} \\sqrt{s} \\right)} \\right)} + a_{25} \\cos{\\left(s \\left(a_{105} \\sin{\\left(s \\right)} + a_{117}\\right) \\right)} + a_{28} \\sin^{2}{\\left(s \\right)} \\sin{\\left(a_{108} \\sqrt{- s \\left(a_{17} - \\sqrt{s}\\right)} \\right)} + a_{29} \\operatorname{asin}{\\left(\\cos{\\left(\\left(a_{67} + s\\right) \\left(a_{89} \\cos{\\left(s \\right)} + 2\\right) \\right)} \\right)} + a_{30} \\sin{\\left(\\sin{\\left(s \\right)} \\sqrt{\\left|{s^{2} \\left(a_{6} + 2 s\\right)}\\right|} \\right)} + a_{31} \\cos{\\left(\\sqrt{s} \\right)} \\cos{\\left(a_{60} + 3 s + \\sin{\\left(\\sqrt{s} \\right)} \\right)} + a_{32} \\cos{\\left(s^{2} \\right)} \\operatorname{asin}{\\left(\\sin{\\left(s + \\tanh{\\left(\\sin{\\left(s \\right)} + \\operatorname{sech}{\\left(s \\right)} \\right)} \\right)} \\cos{\\left(\\sqrt{s} \\right)} \\right)} + a_{33} \\sin{\\left(s \\tanh{\\left(a_{35} + \\sin{\\left(s \\right)} \\right)} \\right)} \\cos{\\left(s \\right)} + a_{36} s \\sin{\\left(a_{63} s \\right)} + a_{48} s \\cos{\\left(a_{76} s^{2} + a_{83} \\right)} + a_{5} s \\sin{\\left(a_{79} + s \\right)} \\operatorname{sech}{\\left(a_{123} s - 425 \\right)} + a_{54} \\sin{\\left(s \\left(\\sin{\\left(s \\right)} + \\operatorname{sech}{\\left(s \\right)}\\right) - s \\right)} + a_{56} \\sin{\\left(s^{2} \\cos{\\left(\\cos{\\left(s \\right)} \\right)} \\right)} + a_{65} \\operatorname{asin}{\\left(\\cos{\\left(s \\left(a_{64} + s\\right) \\right)} \\right)} + a_{66} \\cos{\\left(a_{113} s \\right)} + a_{73} \\cos{\\left(a_{110} s \\left(a_{92} - \\operatorname{sech}{\\left(s \\right)} - \\sqrt{\\operatorname{sech}{\\left(\\sin{\\left(s \\right)} \\right)}}\\right) \\right)} + a_{8} \\sin{\\left(a_{75} + a_{86} s \\right)} + a_{8} \\tanh{\\left(\\sin{\\left(a_{106} \\sqrt{s} + a_{106} s \\right)} \\right)} + a_{97} \\sin{\\left(\\sqrt{s} \\right)} \\cos{\\left(2 s \\right)} + a_{97} \\sin{\\left(s \\left(a_{26} + \\operatorname{acos}{\\left(\\sin{\\left(s \\right)} \\right)}\\right) \\right)} + a_{97} \\sin{\\left(s \\cos{\\left(\\operatorname{sech}{\\left(a_{49} s \\right)} \\right)} \\right)} + a_{97} \\sin{\\left(a_{107} s \\sin{\\left(a_{103} s \\right)} \\right)} + a_{97} \\sin{\\left(\\cos{\\left(s^{a_{111}} \\right)} \\right)} + a_{97} \\cos{\\left(a_{115} s^{2} \\right)} + a_{97} \\cos{\\left(\\sqrt{s} \\sin{\\left(a_{91} + s \\right)} \\right)} + a_{97} \\cos{\\left(s \\left(a_{116} - s\\right) \\right)} + a_{97} \\cos{\\left(s \\left(a_{62} + 2 s\\right) \\right)} + a_{97} \\cos{\\left(s \\left(\\operatorname{asin}{\\left(\\cos{\\left(s \\right)} \\right)} + 2\\right) \\right)} + a_{97} \\tanh{\\left(\\cos{\\left(a_{124} s \\right)} \\right)} + a_{97} \\tanh{\\left(\\cos{\\left(s \\left(a_{104} s + a_{50}\\right) \\right)} \\right)} + a_{97} \\operatorname{asin}{\\left(\\cos{\\left(a_{102} \\sqrt{s} + a_{102} s \\right)} \\right)} - s \\left(a_{41} - s \\left(a_{44} + a_{46} s \\operatorname{sech}{\\left(\\cos{\\left(\\sqrt{s} \\right)} \\right)}\\right)\\right) \\sin{\\left(s \\right)} \\operatorname{asin}{\\left(\\cos{\\left(a_{10} + s \\operatorname{sech}{\\left(\\tanh{\\left(s \\right)} \\right)} \\right)} \\right)} + \\left(a_{126} + a_{45} s^{3}\\right) \\sin{\\left(a_{57} s + a_{57} \\sin{\\left(\\sqrt{s} \\right)} \\right)} - \\left(a_{23} + a_{9} \\sin{\\left(\\left(a_{12} - s\\right) \\left(a_{121} - s\\right) \\right)}\\right) \\cos{\\left(s \\right)} - \\left(a_{3} + a_{88} s\\right) \\left(a_{13} - s \\cos{\\left(s \\right)} - \\sin{\\left(s \\right)}\\right) \\operatorname{sech}{\\left(a_{69} s \\right)} + \\left(a_{34} + \\left(a_{43} s + a_{59}\\right) \\left(a_{20} \\sin{\\left(s \\right)} + a_{40} s + a_{71} - \\sin{\\left(\\sqrt{s} \\right)} - \\cos{\\left(s \\right)} + \\tanh{\\left(s \\right)}\\right) \\cos{\\left(4 s + \\sin{\\left(2 s \\right)} \\right)}\\right) \\operatorname{acos}{\\left(- \\cos{\\left(s \\right)} \\right)} - \\left(a_{70} + a_{82} \\cos{\\left(s \\right)}\\right) \\sin{\\left(s \\left(a_{7} s + a_{98}\\right) \\right)} + \\left(a_{18} \\tanh{\\left(s \\right)} + a_{74} \\sqrt{1 - \\cos^{2}{\\left(s \\right)}}\\right) \\sin{\\left(a_{27} \\sqrt{s} + s \\operatorname{asin}{\\left(\\tanh{\\left(s \\right)} \\right)} + \\operatorname{asin}{\\left(\\cos{\\left(a_{52} s \\left(a_{52} + s\\right) \\right)} \\right)} \\right)} - \\left(a_{42} s - \\left(a_{14} \\sin{\\left(s \\right)} \\cos{\\left(\\sqrt{s} \\right)} + a_{14} \\cos{\\left(s \\right)} + a_{39}\\right) \\sin{\\left(s \\right)}\\right) \\cos{\\left(a_{24} + a_{95} s \\right)} + \\left(a_{47} s - \\operatorname{asin}{\\left(a_{37} \\cos{\\left(s^{2} \\right)} + a_{51} \\sin{\\left(s^{2} \\right)} + \\left(a_{37} \\cos{\\left(s \\right)} + a_{51} \\tanh{\\left(s \\right)}\\right) \\operatorname{asin}{\\left(\\tanh{\\left(s \\right)} \\right)} \\right)}\\right) \\sin{\\left(s \\right)} + \\left(\\operatorname{sech}{\\left(\\sin{\\left(\\left(a_{53} - s\\right) \\tanh{\\left(\\tanh{\\left(s \\right)} \\right)} \\right)} \\right)} - \\operatorname{sech}{\\left(\\operatorname{asin}{\\left(\\cos{\\left(a_{78} + a_{99} s \\right)} \\right)} \\right)}\\right) \\left(a_{11} + a_{119} \\tanh{\\left(s \\right)} + a_{4} \\sin{\\left(s \\right)}\\right) - \\cos{\\left(s \\right)} \\operatorname{acos}{\\left(\\sin{\\left(\\cos{\\left(\\sin{\\left(a_{118} s \\right)} \\right)} \\right)} \\right)} + \\cos{\\left(\\sin{\\left(a_{112} s \\sqrt{a_{85} + s} \\right)} \\right)} + \\tanh{\\left(\\cos{\\left(s \\right)} \\right)} + \\operatorname{asin}{\\left(a_{55} \\sin{\\left(a_{15} + \\sqrt{s} + s \\left(- \\sqrt{s} + s^{a_{61}}\\right) \\right)} \\right)} + \\operatorname{asin}{\\left(a_{50} \\sqrt{s} \\operatorname{asin}{\\left(\\cos{\\left(a_{100} + a_{19} \\cos{\\left(s \\right)} + a_{72} s \\right)} \\right)} \\right)} + \\operatorname{asin}{\\left(\\operatorname{sech}{\\left(a_{122} \\sin{\\left(s \\right)} \\right)} \\right)}$", "uses": [{"slide": 2, "label": "3-z", "rep_fam": 12}, {"slide": 4, "label": "5-z", "rep_fam": 12}]}, {"key": ["x", "Mul(Symbol('a1'), tanh(tanh(sin(sin(Mul(Symbol('a0'), Symbol('s')))))))"], "eq": "$x(s) = a_{1} \\tanh{\\left(\\tanh{\\left(\\sin{\\left(\\sin{\\left(a_{0} s \\right)} \\right)} \\right)} \\right)}$", "uses": [{"slide": 3, "label": "4-x", "rep_fam": 13}]}, {"key": ["y", "Mul(Pow(Symbol('s'), Symbol('a1')), cos(Pow(Symbol('s'), Symbol('a0'))))"], "eq": "$y(s) = s^{a_{1}} \\cos{\\left(s^{a_{0}} \\right)}$", "uses": [{"slide": 3, "label": "4-y", "rep_fam": 8}]}, {"key": ["z", "Pow(Symbol('s'), sin(Mul(Symbol('a0'), exp(sin(Pow(Symbol('s'), Rational(1, 2)))))))"], "eq": "$z(s) = s^{\\sin{\\left(a_{0} e^{\\sin{\\left(\\sqrt{s} \\right)}} \\right)}}$", "uses": [{"slide": 3, "label": "4-z", "rep_fam": 7}]}, {"key": ["x", "Add(Symbol('a1'), Mul(Symbol('s'), sin(cos(Mul(Symbol('a0'), Symbol('s'))))))"], "eq": "$x(s) = a_{1} + s \\sin{\\left(\\cos{\\left(a_{0} s \\right)} \\right)}$", "uses": [{"slide": 4, "label": "5-x", "rep_fam": 14}]}, {"key": ["y", "Mul(Symbol('a1'), Symbol('s'), Pow(Add(Mul(Symbol('a0'), sin(cos(Pow(Symbol('s'), Rational(1, 2))))), Integer(1)), Rational(1, 2)))"], "eq": "$y(s) = a_{1} s \\sqrt{a_{0} \\sin{\\left(\\cos{\\left(\\sqrt{s} \\right)} \\right)} + 1}$", "uses": [{"slide": 4, "label": "5-y", "rep_fam": 7}]}];
+    const eqStats  = {"unique": 14, "total_components": 15};
 
     function escapeHtml(s) {
       return s.replaceAll("&","&amp;").replaceAll("<","&lt;").replaceAll(">","&gt;");
